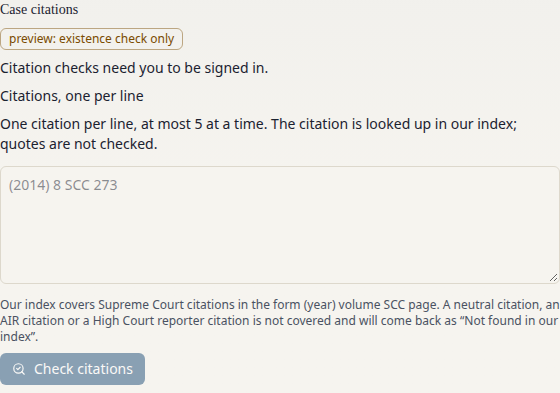
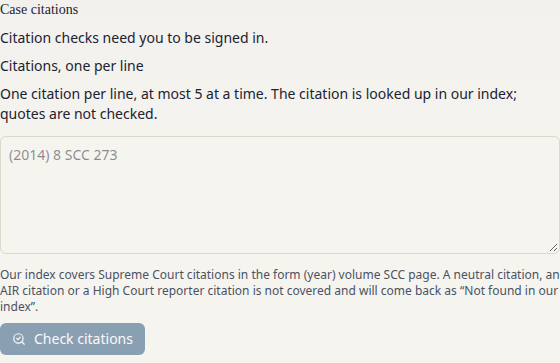
Drop the last customer-visible preview words: benchmarks citation line, guide alts and caption, both 05 guide frames retaken (R1)

Changed region(s): [[0.0, 0.697, 1.0, 0.9697], [0.0, 0.0, 0.9411, 0.2727], [0.0, 0.303, 0.9411, 0.4848]]

diff --git a/frontend/src/lib/guide/guide.spec.ts b/frontend/src/lib/guide/guide.spec.ts
@@ -66,7 +66,7 @@ test("the guide states each limit it was asked to: not legal advice, the citatio
   // R1 (15 Oct): frame 06 as retaken by Track A at main f8738cf7 (528x64, sha256 0a019ee3...c9d2) and its exact alt
   assert.equal(statSync(join(root, "public", "guide", "06-memo-export.png")).size, 11320, "frame 06 retaken with the Download the memo menu opened (M2b, Web, sha256 3b8cb057e1cb)");
   assert.equal(GUIDE_IMAGES.memo.alt, "The memo export controls on the Matter workspace page once a result is shown: the button \u201cDownload the memo\u201d, opened to show Word (.docx) and Markdown (.md), then, set apart, the button Print / save as PDF; on the next line, the button Download run record (.json).");
-  assert.equal(statSync(join(root, "public", "guide", "05-citations-panel.png")).size, 28522, "the frame retaken from the citations-ON build at the D9 batch (Web, 15 Oct, sha256 d2ee473d9e12…)");
+  assert.equal(statSync(join(root, "public", "guide", "05-citations-panel.png")).size, 26287, "the frame retaken from the citations-ON build with the preview chip gone (Web, 19 Oct, sha256 ef33621d1b0a…)");
   assert.doesNotMatch(JSON.stringify([GUIDE_STEPS, GUIDE_LIMITS]), /dev stack only/i);
   assert.doesNotMatch(text, /frontier/i, "the frontier reader was removed in #129; the guide no longer describes it");
   assert.doesNotMatch(copySource, /much faster/, "no signed source for 'much'");
@@ -87,9 +87,9 @@ test("the warm-up note on Screening and Matters is figure-free and the same sent
 });
 
 test("R1 conditions on the images: the citations shot (arm ON, retaken frame only) has the preview caption and alt; the checklist alt names the marks, never a count", () => {
-  assert.equal(GUIDE_IMAGES.citations.caption, "Preview: existence check only."); // shown only with the retaken frame 05 (arm ON)
+  assert.equal(GUIDE_IMAGES.citations.caption, "Existence check only."); // shown only with the retaken frame 05 (arm ON)
   assert.equal(GUIDE_IMAGES.citedFact.caption, "This row has no cited fact: the screening found no fact in your papers that supports this ingredient, so it asks you to look for one. When an ingredient is supported, its row names the fact it cites and shows that fact from your text.");
-  assert.equal(GUIDE_IMAGES.citations.alt, "The Case citations panel: a preview label, a label saying Citations, one per line, a line saying that each line takes one citation, at most 5 at a time, and that quotes are not checked, an empty box with an example citation as its placeholder, a note that the index covers Supreme Court citations in the form (year) volume SCC page and that other citation forms come back as not found, and a Check citations button.");
+  assert.equal(GUIDE_IMAGES.citations.alt, "The Case citations panel: a label saying Citations, one per line, a line saying that each line takes one citation, at most 5 at a time, and that quotes are not checked, an empty box with an example citation as its placeholder, a note that the index covers Supreme Court citations in the form (year) volume SCC page and that other citation forms come back as not found, and a Check citations button.");
   assert.match(GUIDE_IMAGES.checklist.alt, /run on a public court order .*2025:KHC:12773.*three ingredient rows under the heading To look for in your papers, each marked No fact cited/);
   assert.doesNotMatch(GUIDE_IMAGES.checklist.alt, /\b\d+ of \d+\b/);
 });
@@ -171,7 +171,7 @@ const LB_FRAMES: Record<string, string> = {
[6 lines of base64/hex data omitted]
 };
 test("the layout-B frames are exactly the six files in public/guide/lb, each pinned by sha256 (R2's allowance list)", () => {
@@ -183,7 +183,7 @@ test("the layout-B frames are exactly the six files in public/guide/lb, each pin
 test("the layout-B guide wording is R1's, by hash: caption, six alts, step 1 and step 7; 'screening' not 'matter'; the live guide untouched (#416)", () => {
   const sha16 = (x: string) => createHash("sha256").update(x).digest("hex").slice(0, 16);
   assert.equal(sha16(GUIDE_SCREENSHOT_NOTE_LB), "78481acb991e4e81");
-  const hashes = ["5a524fc56f46dfc5", "fdfbe51502257740", "1b7098c1748e1570", "edf31e8b41df8e4a", "ff4d11e69f17403a", "63723e8bcd89b68d"];
+  const hashes = ["5a524fc56f46dfc5", "fdfbe51502257740", "1b7098c1748e1570", "edf31e8b41df8e4a", "a94773c6aec4985a", "63723e8bcd89b68d"];
   assert.deepEqual(Object.values(GUIDE_IMAGES_LB).map((i) => sha16(i.alt)), hashes);
   for (const i of Object.values(GUIDE_IMAGES_LB)) assert.doesNotMatch(i.alt, /matter/i, i.alt);
   assert.equal(sha16("Open This screening in the menu."), "29cf8045db774e24");

diff --git a/frontend/src/lib/guide/copy.ts b/frontend/src/lib/guide/copy.ts
@@ -31,7 +31,7 @@ export interface GuideImage {
 }
 
 // R1 (15 Oct): the frame-05 caption for a build WITH the citations panel. It is shown only with the retaken frame (see FRAME_05_RETAKEN below).
-export const GUIDE_CITATIONS_CAPTION = "Preview: existence check only.";
+export const GUIDE_CITATIONS_CAPTION = "Existence check only.";
 
 // Frame 05 for the panel-on build must be retaken on a build with both citation flags on; until that file exists, the ON build shows step 6 with NO image and NO caption (never the old
 // hosted-build frame). Studio/Track A flip this when the new 05-citations-panel.png is committed.
@@ -59,7 +59,7 @@ export const GUIDE_IMAGES_LIVE: GuideImages = {
   },
   citations: {
     file: "05-citations-panel.png",
-    alt: "The Case citations panel: a preview label, a label saying Citations, one per line, a line saying that each line takes one citation, at most 5 at a time, and that quotes are not checked, an empty box with an example citation as its placeholder, a note that the index covers Supreme Court citations in the form (year) volume SCC page and that other citation forms come back as not found, and a Check citations button.",
+    alt: "The Case citations panel: a label saying Citations, one per line, a line saying that each line takes one citation, at most 5 at a time, and that quotes are not checked, an empty box with an example citation as its placeholder, a note that the index covers Supreme Court citations in the form (year) volume SCC page and that other citation forms come back as not found, and a Check citations button.",
     caption: GUIDE_CITATIONS_CAPTION,
   },
   memo: {
@@ -90,7 +90,7 @@ export const GUIDE_IMAGES_LB: GuideImages = {
   },
   citations: {
     file: "lb/05-citations-panel.png",
-    alt: "The Case citations panel as a signed-out visitor sees it: a preview label saying existence check only, the line Citation checks need you to be signed in, a label Citations, one per line, a line saying that each line takes one citation, at most 5 at a time, and that quotes are not checked, an empty box with an example citation as its placeholder, a note that the index covers Supreme Court citations in the form (year) volume SCC page and that other citation forms come back as not found, and a greyed Check citations button.",
+    alt: "The Case citations panel as a signed-out visitor sees it: the line Citation checks need you to be signed in, a label Citations, one per line, a line saying that each line takes one citation, at most 5 at a time, and that quotes are not checked, an empty box with an example citation as its placeholder, a note that the index covers Supreme Court citations in the form (year) volume SCC page and that other citation forms come back as not found, and a greyed Check citations button.",
     caption: GUIDE_CITATIONS_CAPTION,
   },
   memo: {

diff --git a/frontend/e2e/guide-shots.spec.ts b/frontend/e2e/guide-shots.spec.ts
@@ -121,6 +121,7 @@ test("02/03 the checklist and a row from a real example run (live engine)", asyn
 // Check citations button. The panel is captured before anything is entered, so no engine answer is involved.
 test("05 the citations panel (arm ON)", async ({ page }) => {
   test.skip(process.env.CITATION_NAV_BUILD !== "1" || process.env.CITATION_EXISTENCE_BUILD !== "1", "the Screening panel is rendered only on a build with both citation flags");
+  test.skip(process.env.MATTER_B_BUILD === "1", "the layout-B frame is the next test");
   await openWith(page, full); // the panel sits under a result
   await page.getByRole("button", { name: "Screen these facts" }).click();
   await expect(page.getByTestId("checklist").first()).toBeVisible();
@@ -129,4 +130,25 @@ test("05 the citations panel (arm ON)", async ({ page }) => {
   await panel.scrollIntoViewIfNeeded();
   await hideFloaters(page);
   await panel.screenshot({ path: "public/guide/05-citations-panel.png" });
+});
+
+// lb/05: the same panel on the layout-B build as a signed-out visitor sees it (the panel's own identity read finds nobody signed in), for public/guide/lb.
+test("05 the citations panel (layout B, signed out)", async ({ page }) => {
+  test.skip(process.env.CITATION_NAV_BUILD !== "1" || process.env.CITATION_EXISTENCE_BUILD !== "1" || process.env.MATTER_B_BUILD !== "1", "needs the layout-B build with both citation flags");
+  let screened = false;
+  await page.route("**/api/me", (r) => (screened ? r.fulfill({ status: 401, json: { error: "unauthorized" } }) : r.fulfill({ json: { email: "invented@example.invalid" } })));
+  await page.route("**/api/nyaya/registry/contracts", (r) => r.fulfill({ json: { contracts: ["ipc415_property"], entries: [{ id: "ipc415_property", validated: true }] } }));
+  await page.route("**/api/v1/analyse-facts**", (r) => { screened = true; return r.fulfill({ json: full }); });
+  await page.setViewportSize({ width: 832, height: 900 });
+  await page.goto("/screening");
+  await page.getByLabel("Paste the FIR, complaint or narrative").fill(FACTS6.join("\n\n"));
+  await page.getByTestId("split-facts").click();
+  await page.getByText("Cheating", { exact: false }).first().click();
+  await page.getByRole("button", { name: "Screen these facts" }).click();
+  await expect(page.getByTestId("checklist").first()).toBeVisible();
+  const panel = page.getByTestId("citations-panel");
+  await expect(panel.getByTestId("citations-panel-signed-out")).toBeVisible();
+  await panel.scrollIntoViewIfNeeded();
+  await hideFloaters(page);
+  await panel.screenshot({ path: "public/guide/lb/05-citations-panel.png" });
 });

diff --git a/frontend/src/lib/benchmarks.spec.ts b/frontend/src/lib/benchmarks.spec.ts
@@ -8,7 +8,7 @@ test("the benchmarks page says exactly R1's strings (13 Oct), in his order", () 
   assert.equal(PAGE_SUBTITLE, "What we check, and what the checks do and do not show.");
   assert.deepEqual([...BENCHMARK_STATEMENTS], [
     "Court material: fixed sets of real Indian court items the screen is checked against. A result shows what the screen did on that set, not a promise about your matter.",
-    "Citation checker (labelled preview): in our study we planted wrong quotes in citations to see whether the checker would accept them. The preview in the app checks that the case exists in our index; it does not check the quote and does not tell you whether the case supports your point.",
+    "Citation checker: in our study we planted wrong quotes in citations to see whether the checker would accept them. The citation check in the app checks that the case exists in our index; it does not check the quote and does not tell you whether the case supports your point.",
     "Public test: a United States rule-application benchmark, used only to see whether the element-by-element method helps on a public task. It is not an Indian-law claim.",
     "Legal-knowledge test: how our models do on an Indian legal-knowledge multiple-choice test. It is not a measure of what the product does.",
   ]);

diff --git a/frontend/src/lib/benchmarks.ts b/frontend/src/lib/benchmarks.ts
@@ -7,7 +7,7 @@ export const PAGE_SUBTITLE = "What we check, and what the checks do and do not s
 
 export const BENCHMARK_STATEMENTS: readonly string[] = [
   "Court material: fixed sets of real Indian court items the screen is checked against. A result shows what the screen did on that set, not a promise about your matter.",
-  "Citation checker (labelled preview): in our study we planted wrong quotes in citations to see whether the checker would accept them. The preview in the app checks that the case exists in our index; it does not check the quote and does not tell you whether the case supports your point.",
+  "Citation checker: in our study we planted wrong quotes in citations to see whether the checker would accept them. The citation check in the app checks that the case exists in our index; it does not check the quote and does not tell you whether the case supports your point.",
   "Public test: a United States rule-application benchmark, used only to see whether the element-by-element method helps on a public task. It is not an Indian-law claim.",
   "Legal-knowledge test: how our models do on an Indian legal-knowledge multiple-choice test. It is not a measure of what the product does.",
 ];

diff --git a/frontend/e2e/benchmarks.spec.ts b/frontend/e2e/benchmarks.spec.ts
@@ -10,7 +10,7 @@ test("the page shows R1's statements, NyayaSiddhi and How we test, and no figure
   const items = page.getByTestId("benchmark-statements").locator("li");
   await expect(items).toHaveCount(4);
   await expect(items.nth(0)).toContainText("Court material: fixed sets of real Indian court items");
-  await expect(items.nth(1)).toContainText("Citation checker (labelled preview)");
+  await expect(items.nth(1)).toContainText("Citation checker:");
   await expect(items.nth(2)).toContainText("Public test: a United States rule-application benchmark");
   await expect(items.nth(3)).toContainText("Legal-knowledge test: how our models do");
   await expect(page.getByTestId("block-how")).toContainText("Each result is checked by a second, independent model reviewer.");
